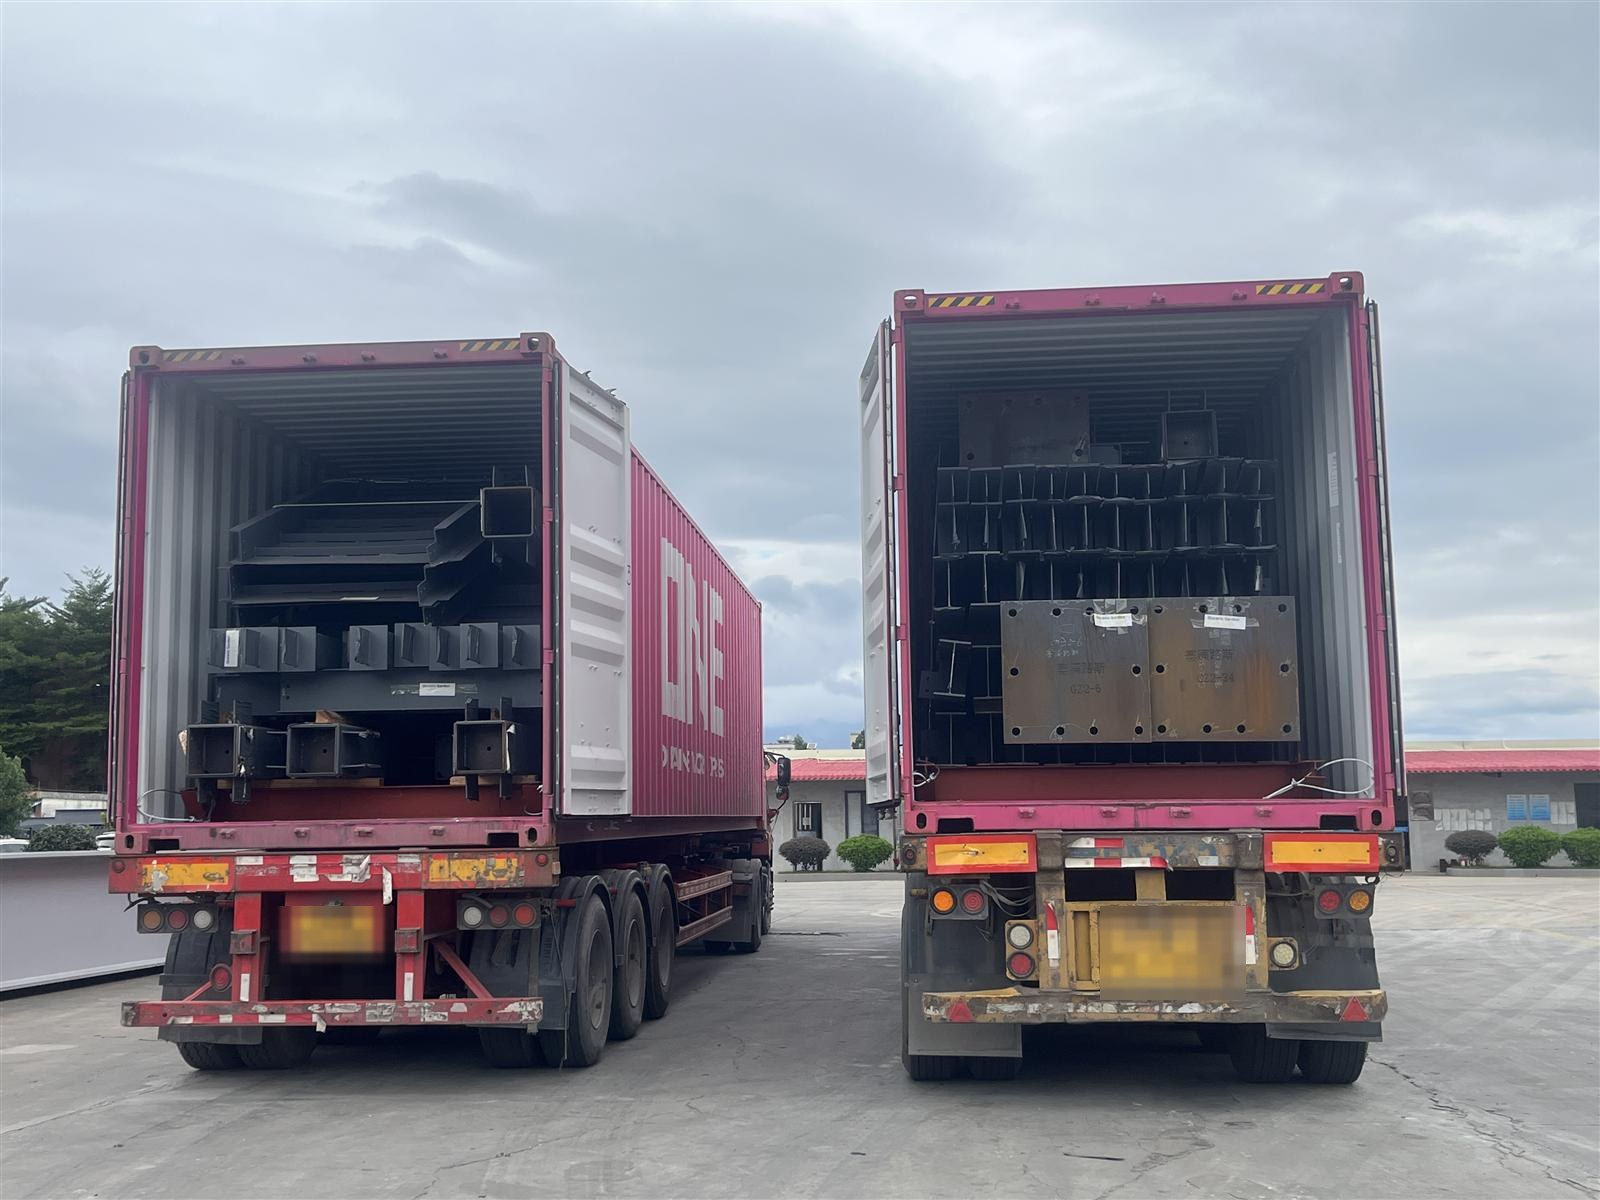
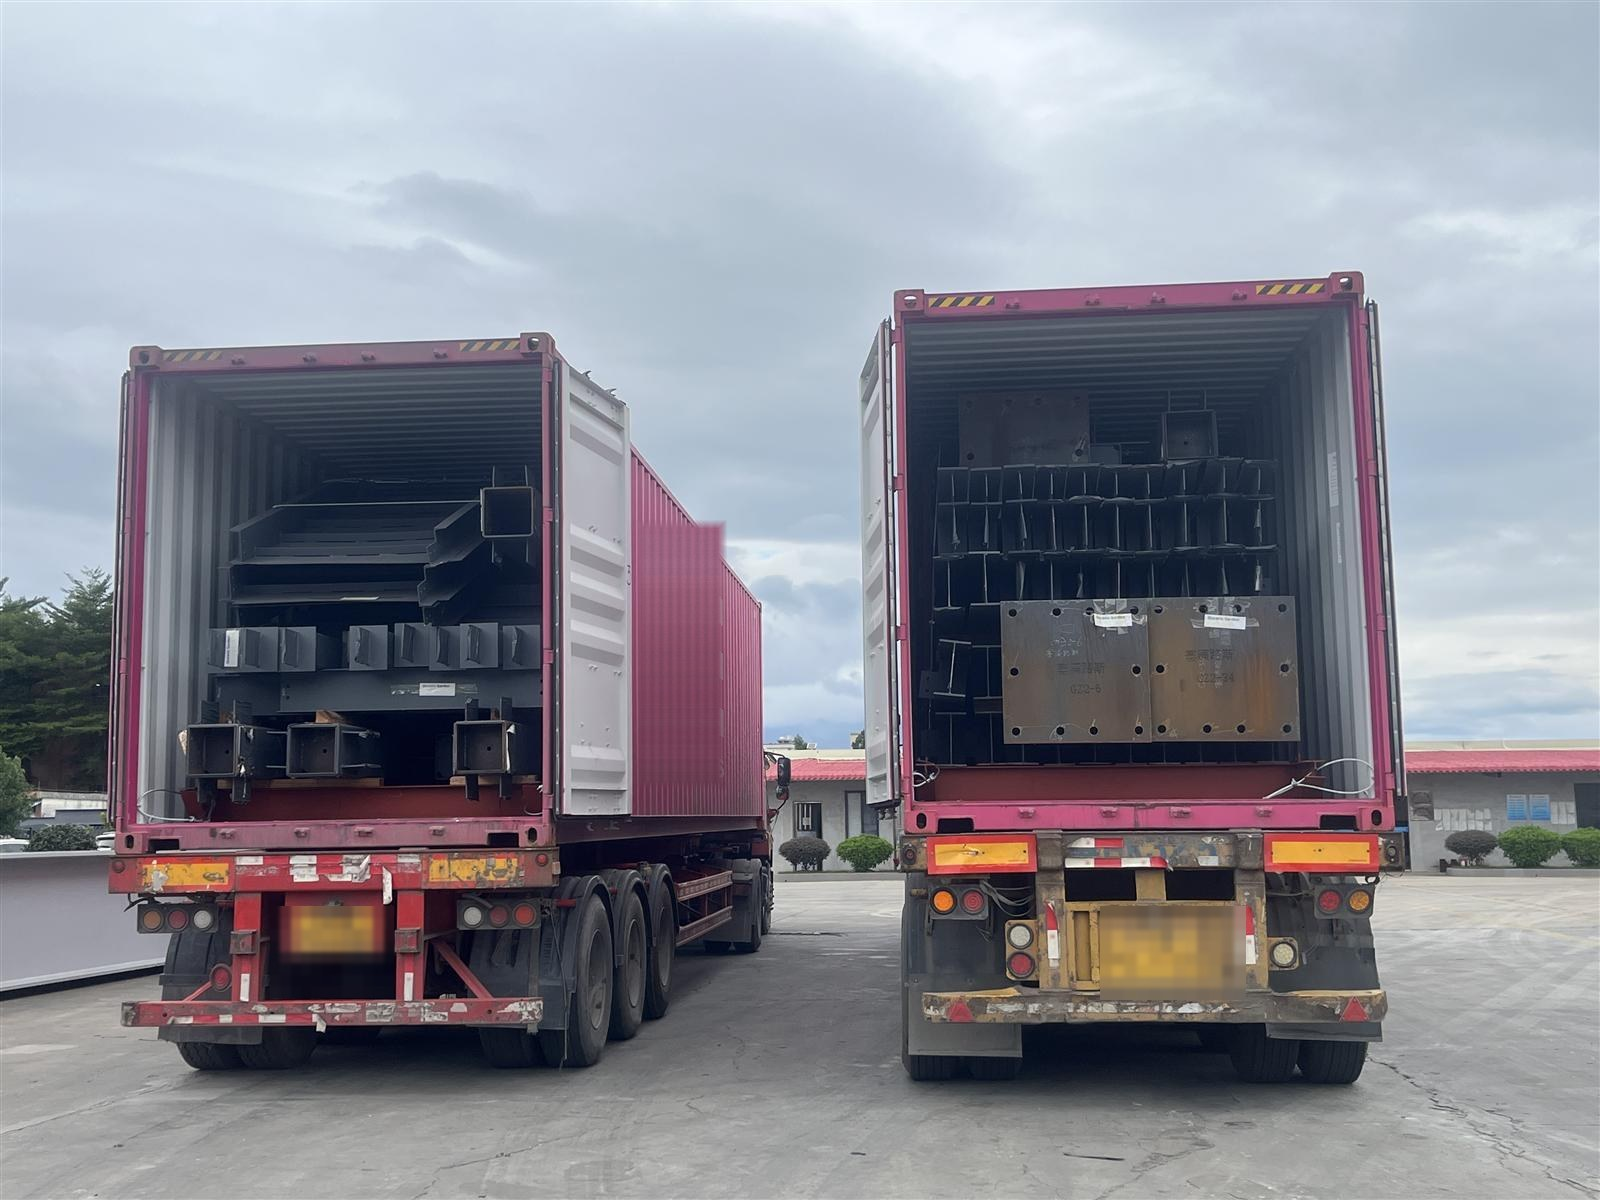
V2 pre-launch final cleanup

Changed region(s): [[0.4062, 0.4317, 0.4688, 0.6475]]

diff --git a/src/data/projects-data.ts b/src/data/projects-data.ts
@@ -154,7 +154,7 @@ export const projects: ProjectData[] = [
       { src: `${P}shantou-luxshare-precision-electronics-aerial-rendering.jpg`, type: 'rendering', label: { zh: '项目效果图', en: 'Project Rendering' } },
       { src: `${P}shantou-luxshare-precision-electronics-construction-aerial.jpg`, type: 'site', label: { zh: '施工航拍', en: 'Construction Aerial' } },
       { src: `${P}shantou-luxshare-precision-electronics-project-panorama.jpg`, type: 'site', label: { zh: '项目全景', en: 'Project Panorama' } },
-      { src: `${P}shantou-luxshare-precision-electronics-street-view.jpg`, type: 'site', label: { zh: '项目现场', en: 'Street View' } },
+      { src: `${P}shantou-luxshare-precision-electronics-street-view.jpg`, type: 'rendering', label: { zh: '项目效果图', en: 'Project Rendering' } },
     ],
     overview: {
       zh: '大型电子信息产业综合体项目，立讯精密（股票代码：002475）全球电子信息产业中心，涵盖研发、生产及配套设施。',
@@ -179,7 +179,7 @@ export const projects: ProjectData[] = [
       { src: `${P}futian-bonded-zone-customs-aerial-rendering.jpg`, type: 'rendering', label: { zh: '项目效果图', en: 'Project Rendering' } },
       { src: `${P}futian-bonded-zone-customs-construction-site.jpg`, type: 'site', label: { zh: '项目现场', en: 'Project Site' } },
       { src: `${P}futian-bonded-zone-customs-interior-view.jpg`, type: 'site', label: { zh: '内部视图', en: 'Interior View' } },
-      { src: `${P}futian-bonded-zone-customs-street-view.jpg`, type: 'site', label: { zh: '项目现场', en: 'Street View' } },
+      { src: `${P}futian-bonded-zone-customs-street-view.jpg`, type: 'rendering', label: { zh: '项目模型图', en: 'Project Model' } },
     ],
     overview: {
       zh: '深圳福田保税区海关监管基础设施项目，包含海关办公、监管仓库及配套设施，钢结构框架体系。',
@@ -317,7 +317,7 @@ export const projects: ProjectData[] = [
     heroImageType: 'rendering',
     galleryImages: [
       { src: `${P}luohu-mixc-commercial-skybridge-aerial-rendering.jpg`, type: 'rendering', label: { zh: '项目效果图', en: 'Project Rendering' } },
-      { src: `${P}luohu-mixc-commercial-skybridge-completed-view.jpg`, type: 'site', label: { zh: '完工实景', en: 'Completed View' } },
+      { src: `${P}luohu-mixc-commercial-skybridge-completed-view.jpg`, type: 'rendering', label: { zh: '项目效果图', en: 'Project Rendering' } },
       { src: `${P}luohu-mixc-commercial-skybridge-construction-site.jpg`, type: 'site', label: { zh: '项目现场', en: 'Construction Site' } },
       { src: `${P}luohu-mixc-commercial-skybridge-street-view.jpg`, type: 'site', label: { zh: '项目现场', en: 'Street View' } },
     ],
@@ -339,9 +339,9 @@ export const projects: ProjectData[] = [
     name: { zh: '中海油PR6管廊4-SS2框架项目', en: 'CNOOC PR6 Pipe Rack 4-SS2 Frame Project' },
     location: { zh: '广东惠州', en: 'Huizhou, Guangdong' },
     image: `${P}cnooc-pr6-pipe-rack-frame-aerial-rendering.jpg`,
-    heroImageType: 'rendering',
+    heroImageType: 'site',
     galleryImages: [
-      { src: `${P}cnooc-pr6-pipe-rack-frame-aerial-rendering.jpg`, type: 'rendering', label: { zh: '项目效果图', en: 'Project Rendering' } },
+      { src: `${P}cnooc-pr6-pipe-rack-frame-aerial-rendering.jpg`, type: 'site', label: { zh: '项目现场', en: 'Project Site' } },
       { src: `${P}cnooc-pr6-pipe-rack-frame-construction-site-1.jpg`, type: 'site', label: { zh: '项目现场', en: 'Project Site' } },
       { src: `${P}cnooc-pr6-pipe-rack-frame-construction-site-2.jpg`, type: 'site', label: { zh: '项目现场', en: 'Project Site' } },
       { src: `${P}cnooc-pr6-pipe-rack-frame-detail-view.jpg`, type: 'component', label: { zh: '钢结构细节', en: 'Steel Structure Detail' } },
